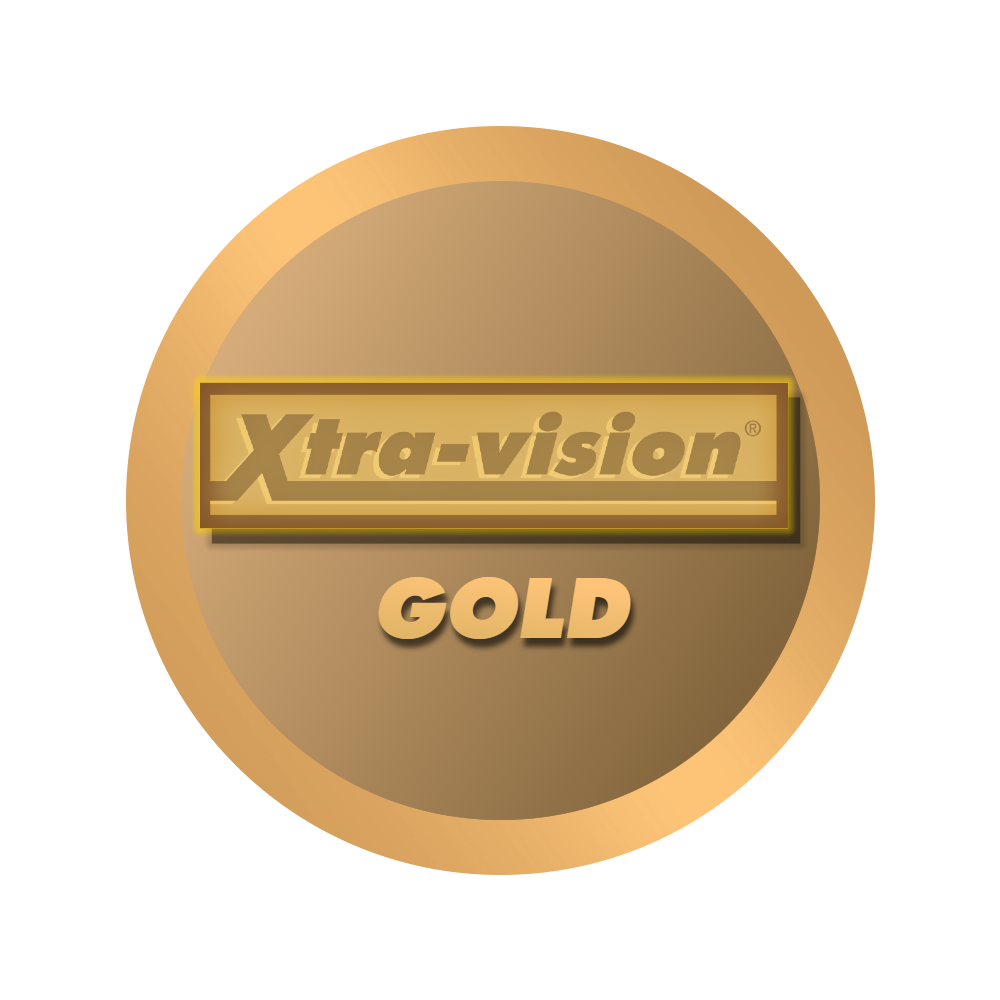
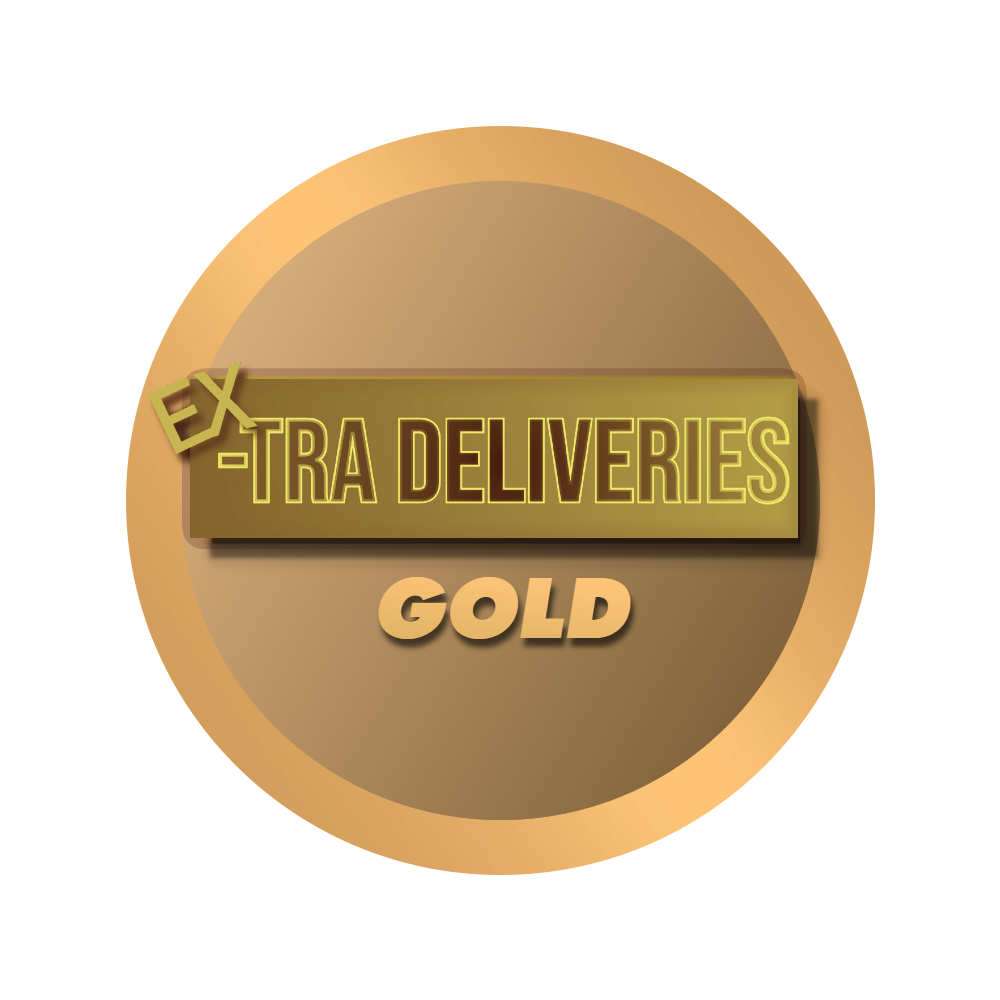
Removed copyright problems :+1:

Changed region(s): [[0.155, 0.341, 0.837, 0.558]]

diff --git a/XtraVision/src/main/java/commands/AddProductCommand.java b/XtraVision/src/main/java/commands/AddProductCommand.java
@@ -31,6 +31,7 @@ public class AddProductCommand implements Command {
 
         ProductDao productDao = new ProductDao("xtra");
 
+
         try {
             Product product;
             switch (productType) {
@@ -39,6 +40,7 @@ public class AddProductCommand implements Command {
                     String platform = request.getParameter("platform");
                     String gameRating = request.getParameter("gameRating");
                     product = new Game(0, name, description, genre, studio, publisher, platform, releaseDate, price, quantity, gameRating);
+                    productDao.addProduct(product);
                     break;
                 case "Movie":
                     String director = request.getParameter("director");
@@ -46,6 +48,7 @@ public class AddProductCommand implements Command {
                     String movieRuntime = request.getParameter("movieRuntime");
                     String movieRating = request.getParameter("movieRating");
                     product = new Movie(0, name, description, genre, director, studio, movieFormat, releaseDate, price, movieRating, movieRuntime, quantity);
+                    productDao.addProduct(product);
                     break;
                 case "Tv":
                     String showrunner = request.getParameter("showrunner");
@@ -55,6 +58,7 @@ public class AddProductCommand implements Command {
                     int noOfEpisodes = Integer.parseInt(request.getParameter("noOfEpisodes"));
                     String tvRating = request.getParameter("tvRating");
                     product = new Tv(0, name, description, genre, studio, releaseDate, price, quantity, showrunner, tvFormat, noOfSeasons, noOfEpisodes, tvRuntime, tvRating);
+                    productDao.addProduct(product);
                     break;
                 default:
                     return "error.jsp"; // Redirect to error page
